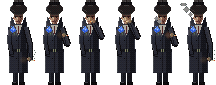
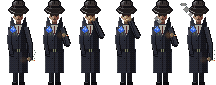
Blue Lantern smoker: shorter face and fedora, defined hat, neutral mouth

diff --git a/tools/art/expansion_act1.py b/tools/art/expansion_act1.py
@@ -913,8 +913,8 @@ REGULAR_X = 442
 SMOKE_POSES = (
     {"elbow": (11, 136), "hand": (10, 150), "ember": 0, "puff": None},
     {"elbow": (13, 136), "hand": (9, 126), "ember": 0, "puff": None},
-    {"elbow": (11, 129), "hand": (3, 112), "ember": 1, "puff": None},
-    {"elbow": (11, 129), "hand": (3, 112), "ember": 2, "puff": None},
+    {"elbow": (11, 128), "hand": (3, 110), "ember": 1, "puff": None},
+    {"elbow": (11, 128), "hand": (3, 110), "ember": 2, "puff": None},
     {"elbow": (13, 136), "hand": (9, 126), "ember": 1, "puff": ((-3, 113, 2), (-6, 110, 2))},
     {"elbow": (11, 136), "hand": (10, 150), "ember": 0, "puff": ((-12, 101, 3), (-15, 96, 2), (-8, 106, 2))},
 )
@@ -954,30 +954,30 @@ def regular(img, pose=0):
     # head and neck under the brim: the street lamp on the left lights the cheek, nose and chin, the far side of
     # the face falls into shadow, and the brim throws a band of shade over the brow and eyes
     face, face_d, face_l, face_dd = SKIN
-    d.rectangle([cx - 2, 113, cx + 2, 118], fill=face_dd)
-    d.ellipse([cx - 4, 103, cx + 4, 115], fill=face)
-    d.chord([cx - 4, 103, cx + 4, 115], 270, 90, fill=face_d)
-    d.line([(cx - 3, 110), (cx - 3, 112)], fill=face_l)
-    d.line([(cx - 2, 113), (cx - 1, 114)], fill=face_l)
-    d.line([(cx + 3, 110), (cx + 1, 114)], fill=face_dd)
+    d.rectangle([cx - 2, 111, cx + 2, 117], fill=face_dd)
+    d.ellipse([cx - 4, 103, cx + 4, 113], fill=face)
+    d.chord([cx - 4, 103, cx + 4, 113], 270, 90, fill=face_d)
+    d.line([(cx - 3, 109), (cx - 3, 110)], fill=face_l)
+    d.point((cx - 2, 112), fill=face_l)
+    d.line([(cx + 3, 109), (cx + 3, 111)], fill=face_dd)
     # ear on the lit side
-    d.point((cx - 5, 109), fill=face)
-    d.point((cx - 5, 110), fill=face_d)
+    d.point((cx - 5, 108), fill=face)
+    d.point((cx - 5, 109), fill=face_d)
     # brim shadow, then brow ridge and eyes glinting out of it
-    d.rectangle([cx - 4, 106, cx + 4, 108], fill=face_dd)
-    d.line([(cx - 3, 108), (cx - 1, 108)], fill=hx("2a1a14"))
-    d.line([(cx + 1, 108), (cx + 3, 108)], fill=hx("2a1a14"))
-    d.point((cx - 3, 109), fill=hx("1a1210"))
-    d.point((cx - 2, 109), fill=hx("c8bcae"))
-    d.point((cx + 2, 109), fill=hx("1a1210"))
+    d.rectangle([cx - 4, 105, cx + 4, 107], fill=face_dd)
+    d.line([(cx - 3, 107), (cx - 1, 107)], fill=hx("2a1a14"))
+    d.line([(cx + 1, 107), (cx + 3, 107)], fill=hx("2a1a14"))
+    d.point((cx - 3, 108), fill=hx("1a1210"))
+    d.point((cx - 2, 108), fill=hx("c8bcae"))
+    d.point((cx + 2, 108), fill=hx("1a1210"))
     # nose: a lit ridge, a shadowed side and the nostril
-    d.line([(cx - 1, 109), (cx - 1, 111)], fill=face_l)
-    d.line([(cx, 110), (cx, 111)], fill=face_d)
-    d.point((cx, 112), fill=face_dd)
-    # mouth and the underside of the lower lip, then a lit chin
-    d.line([(cx - 2, 113), (cx + 1, 113)], fill=hx("5a3028"))
-    d.point((cx - 1, 114), fill=face_l)
-    d.point((cx - 1, 114), fill=face)
+    d.point((cx - 1, 108), fill=face_l)
+    d.point((cx - 1, 109), fill=face_l)
+    d.point((cx, 109), fill=face_d)
+    d.point((cx, 110), fill=face_dd)
+    # a flat, closed mouth, then a lit chin
+    d.line([(cx - 1, 111), (cx + 1, 111)], fill=hx("4a3028"))
+    d.point((cx - 1, 112), fill=face_l)
     # overcoat: hunched shoulders, a modest flare, belt, the lamp catching its left edge
     d.polygon([(cx - 8, 116), (cx + 8, 116), (cx + 8, 123), (cx + 9, 164), (cx - 9, 164), (cx - 8, 123)],
               fill=coat)
@@ -1046,20 +1046,32 @@ def regular(img, pose=0):
         d.point((hx_ - 3, hy + 1), fill=ember)
     # fedora, tipped forward and seen from above: a wide brim, the pinched crown sitting at its back, and the front
     # lip dipping low over the brow so the eyes look out of its shadow
-    hy0, by0 = -3, -6
-    d.ellipse([cx - 8, 101 + by0, cx + 8, 111 + by0], fill=hat_d)
-    d.arc([cx - 8, 101 + by0, cx + 8, 111 + by0], 160, 300, fill=hat_l)
-    d.polygon([(cx - 5, 102 + by0), (cx - 5, 98 + hy0), (cx - 4, 95 + hy0), (cx + 4, 95 + hy0), (cx + 5, 98 + hy0),
-               (cx + 5, 102 + by0)], fill=hat)
-    d.polygon([(cx - 5, 102 + by0), (cx - 5, 98 + hy0), (cx - 4, 95 + hy0), (cx - 2, 95 + hy0), (cx - 3, 98 + hy0),
-               (cx - 3, 102 + by0)], fill=mix(hat, hat_l, 0.45))
-    d.ellipse([cx - 4, 95 + hy0, cx + 4, 100 + hy0], fill=mix(hat, hat_l, 0.3))
-    d.line([(cx, 95 + hy0), (cx, 99 + hy0)], fill=hat_d)
-    d.point((cx - 1, 96 + hy0), fill=hat_l)
-    d.rectangle([cx - 5, 102 + by0 - 2, cx + 5, 102 + by0], fill=band)
-    d.chord([cx - 8, 101 + by0, cx + 8, 112 + by0], 0, 180, fill=hat_d)
-    d.arc([cx - 8, 101 + by0, cx + 8, 112 + by0], 25, 155, fill=hx("34302c"))
-    d.line([(cx - 7, 107 + by0), (cx - 4, 109 + by0)], fill=mix(hat_d, hat_l, 0.5))
+    rim, crease, ribbon = hx("a89a88"), hx("141214"), hx("4a3a34")
+    # a dark silhouette first so the hat reads against the night street
+    d.ellipse([cx - 10, 97, cx + 10, 106], fill=outline)
+    d.polygon([(cx - 6, 100), (cx - 6, 94), (cx - 4, 92), (cx + 4, 92), (cx + 6, 94), (cx + 6, 100)], fill=outline)
+    # a flat brim seen slightly from above, its back edge catching the lamp
+    d.ellipse([cx - 9, 98, cx + 9, 104], fill=hat_d)
+    d.arc([cx - 9, 98, cx + 9, 104], 180, 270, fill=hat_l)
+    # crown: lit left flank, shaded right flank, and the centre crease with its two front pinches
+    d.polygon([(cx - 5, 100), (cx - 5, 94), (cx - 3, 93), (cx + 3, 93), (cx + 5, 94), (cx + 5, 100)], fill=hat)
+    d.polygon([(cx - 5, 100), (cx - 5, 94), (cx - 3, 93), (cx - 2, 93), (cx - 3, 94), (cx - 3, 100)], fill=hat_l)
+    d.line([(cx + 4, 94), (cx + 4, 97)], fill=hat_d)
+    d.line([(cx, 93), (cx, 95)], fill=crease)
+    d.point((cx - 2, 95), fill=hat_d)
+    d.point((cx + 2, 95), fill=hat_d)
+    d.point((cx - 4, 94), fill=rim)
+    d.point((cx - 3, 93), fill=rim)
+    # band: a dark ribbon edged by a lit top line, its bow on the left
+    d.rectangle([cx - 5, 97, cx + 5, 99], fill=band)
+    d.line([(cx - 5, 97), (cx + 4, 97)], fill=ribbon)
+    d.point((cx - 4, 98), fill=ribbon)
+    d.point((cx - 4, 99), fill=ribbon)
+    # front brim tipped low over the brow, its lip lit along the edge
+    d.chord([cx - 9, 98, cx + 9, 106], 0, 180, fill=hat_d)
+    d.line([(cx - 8, 102), (cx - 4, 104)], fill=rim)
+    d.line([(cx - 3, 105), (cx + 3, 105)], fill=hat)
+    d.line([(cx + 4, 104), (cx + 7, 102)], fill=hat)
     if p["puff"]:
         for px_, py_, r in p["puff"]:
             _puff(d, cx + px_, py_, r)
@@ -1238,8 +1250,11 @@ def build_florist():
     src = Image.blend(variants["base"], variants["grille"], 0.5)
     src.paste(frames[0][0].crop(box), box[:2])
     cx = REGULAR_X
-    face = frames[0][0].crop((cx - 6, 106, cx + 6, 117)).quantize(6, method=Image.Quantize.MEDIANCUT)
+    face = frames[0][0].crop((cx - 6, 104, cx + 6, 114)).quantize(6, method=Image.Quantize.MEDIANCUT)
     skin = [tuple(face.getpalette()[i * 3:i * 3 + 3]) for i in range(6)]
+    # likewise the fedora's few greys, so its lit flank, rim and crease survive as separate tones
+    hat = frames[0][0].crop((cx - 10, 91, cx + 11, 107)).quantize(6, method=Image.Quantize.MEDIANCUT)
+    skin += [tuple(hat.getpalette()[i * 3:i * 3 + 3]) for i in range(6)]
     pal = (palette_of(src, 128) + list(CARNATION) + list(EMBER) + [ROSE, mul(ROSE, 0.62), mul(ROSE, 0.45),
                                                                     hx("ccc3a0")] + skin)
     px = {k: pixelize(v, pal) for k, v in variants.items()}
